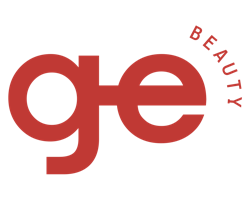
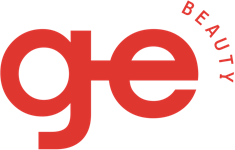
Ajustar Fotos dos Cases

diff --git a/assets/css/pages/home.css b/assets/css/pages/home.css
@@ -56,7 +56,7 @@
 .cases .outros-cases .case { display: flex; align-items: center; justify-content: center; width: auto; height: auto; }
 .cases .outros-cases .case:hover img:first-child { display: block; }
 .cases .outros-cases .case:hover img:last-child { display: none; }
-.cases .outros-cases .case img { max-height: 30px; max-width: 150px; transition: .3s; }
+.cases .outros-cases .case img { max-height: 35px; max-width: 150px; transition: .3s; }
 .cases .outros-cases .case img:first-child { display: none; }
 .cases .outros-cases .case img:last-child { display: block; }
 .cases .outros-cases .swiper-button-prev, .cases .outros-cases .swiper-button-next { width: 40px; height: 40px; background: #fff; display: flex; align-items: center; justify-content: center; border-radius: 50%; margin-top: 0; box-shadow: 0px 3px 6px #00000029; transition: .3s; }

diff --git a/assets/js/main.js b/assets/js/main.js
@@ -93,13 +93,13 @@ $(document).ready(function(){
     },
     breakpoints: {
       320: {
-        spaceBetween: 30
+        spaceBetween: 15
       },
       480: {
-        spaceBetween: 45
+        spaceBetween: 30
       },
       640: {
-        spaceBetween: 60
+        spaceBetween: 30
       }
     }
   })
